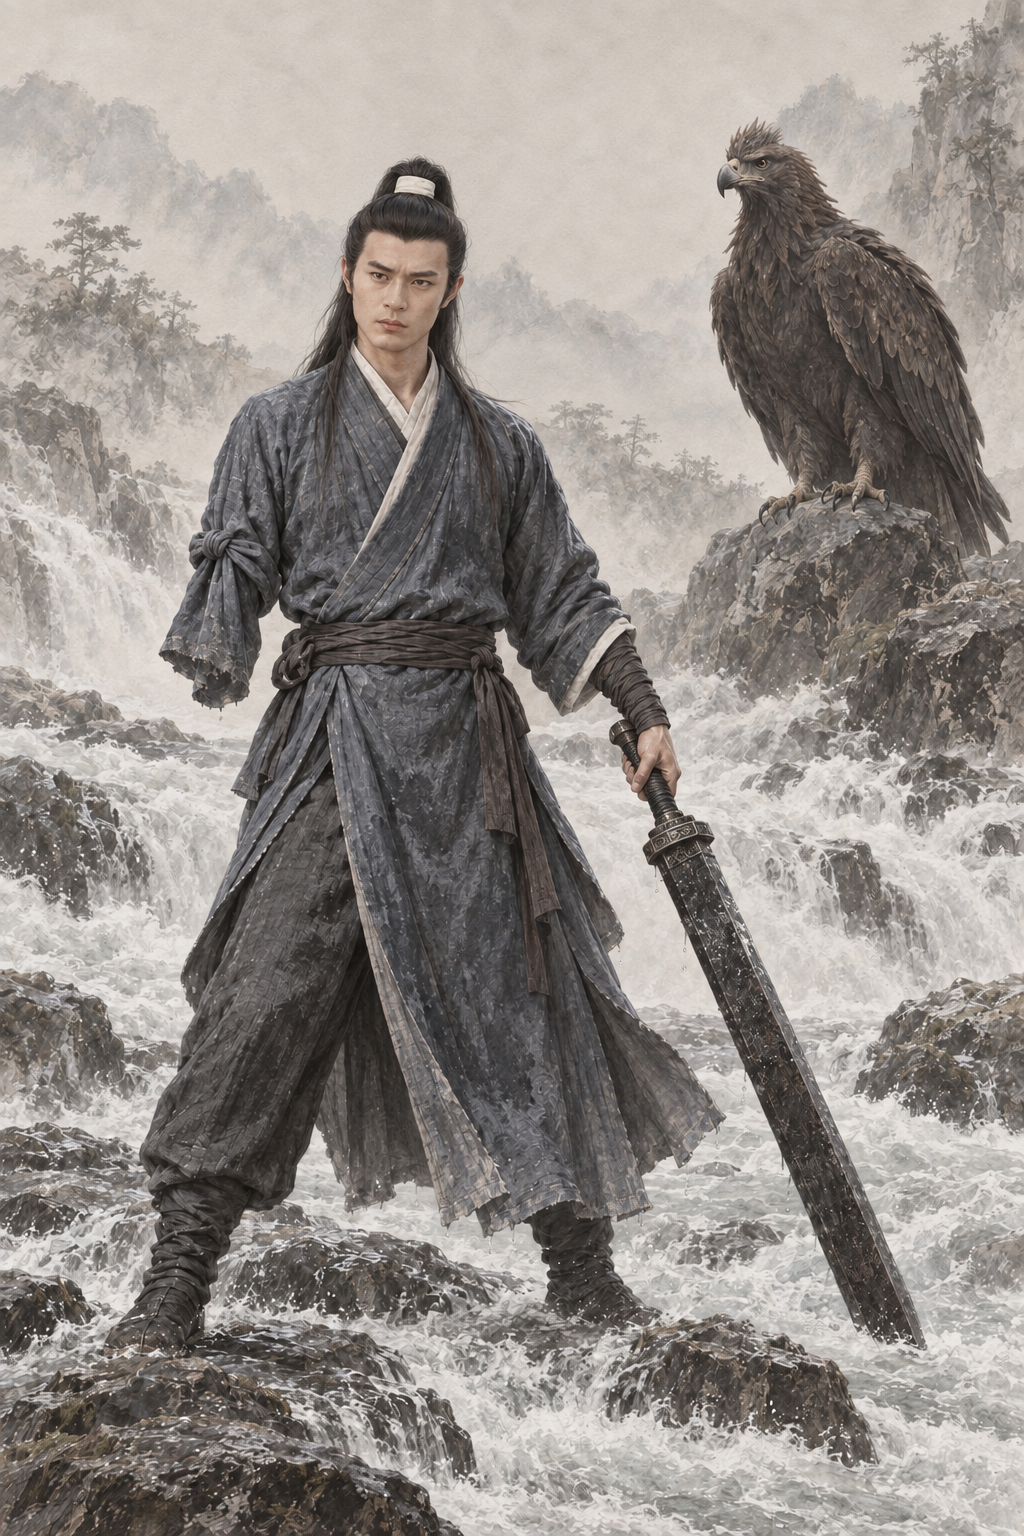
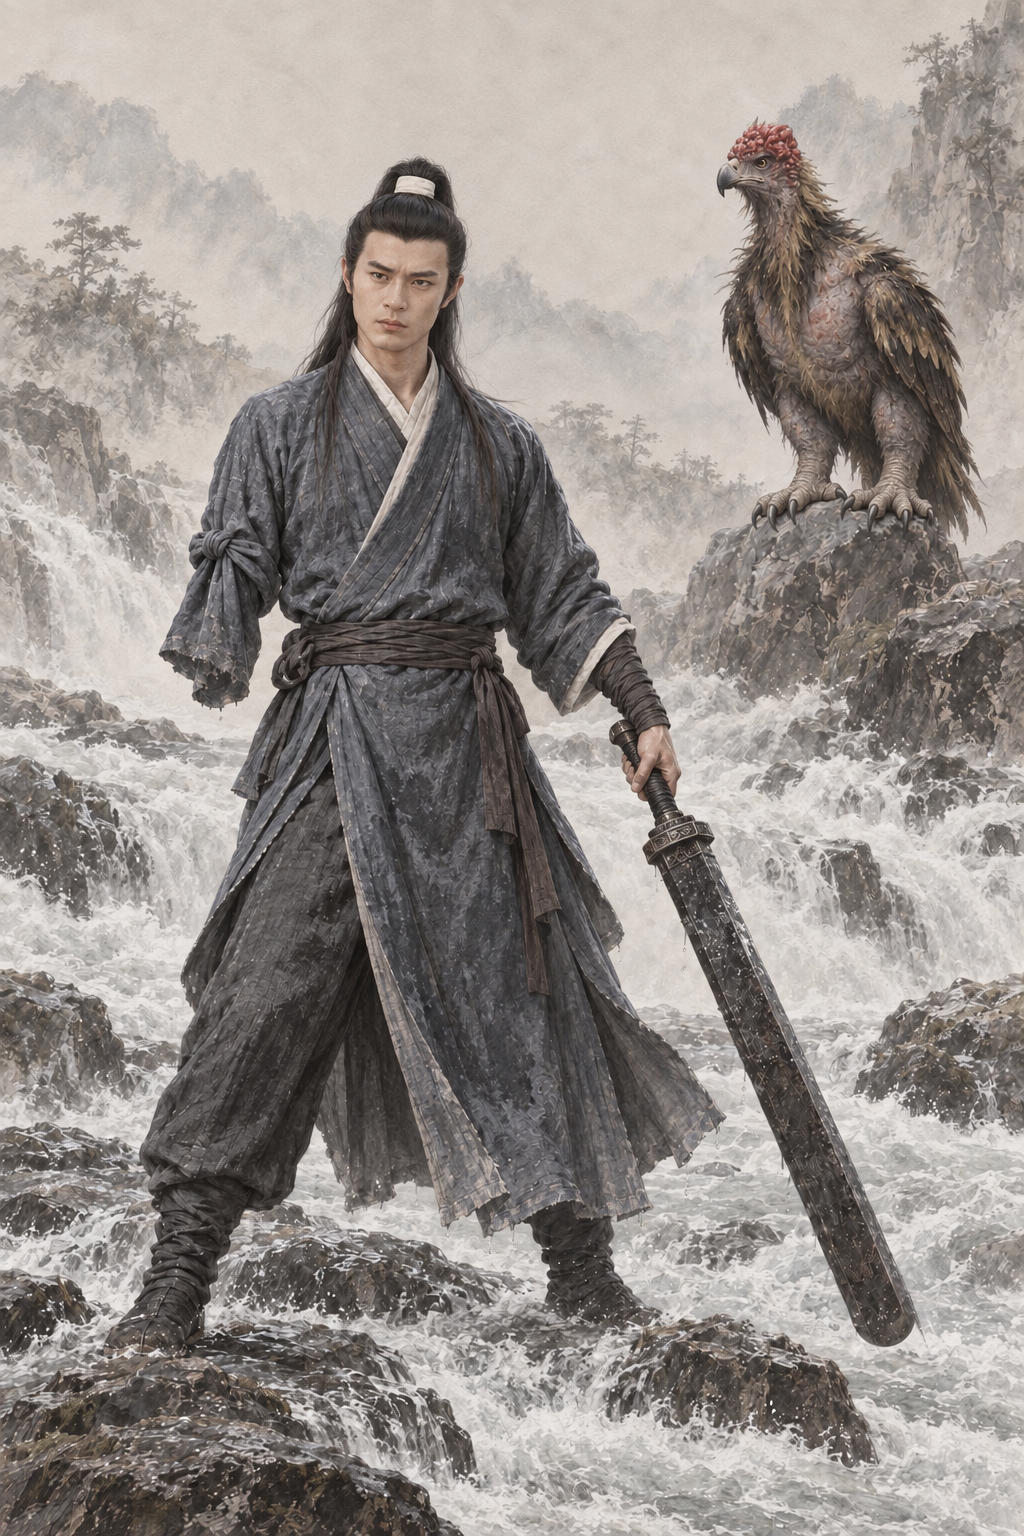
assets: AR-82 原著核对返修 杨过洪流重剑及神雕圆钝尖红肉瘤
原著摘句已同步提示词；已打开验图；蒙版外0像素变化。

Executed-By: Codex gpt-6.1-sol（AR-82）

Changed region(s): [[0.6875, 0.0625, 1.0, 0.4062], [0.8438, 0.8438, 0.9062, 0.875]]

diff --git a/assets/default/prompts/characters/ch03-shendiao/npc_yangguo__scene_torrent_heavy_sword_condor.md b/assets/default/prompts/characters/ch03-shendiao/npc_yangguo__scene_torrent_heavy_sword_condor.md
@@ -102,3 +102,9 @@ Create a premium REALISTIC Chinese wuxia character illustration with a delicate 
 - 采用作者授权宽松自查；偏差如实记录，candidate不代表approved。
 - 源PNG通常为1024×1536 RGB；其他原生2:3尺寸如实登记，原字节保存，不裁切、重编码、放大或去除溯源。
 - 完整请求、实际参考哈希及旧版本备份见 `.agents/coord/portrait-generation/realism-20261001/por_npc_yangguo__ch03_youth_scene_torrent_heavy_sword_condor.prepared.json`。
+
+## 原著依据
+
+- 《神雕侠侣》第二十六回 神雕重剑：“剑尖更圆圆的似是个半球”；https://www.xuges.com/wuxia/jinyong/sdxl/187.htm
+- 《神雕侠侣》第二十三回 手足情仇：“头顶生着个血红的大肉瘤”；https://www.xuges.com/wuxia/jinyong/sdxl/162.htm
+- AR-82 返修约束（本节优先于历史提示词）：只修改两处：左手重剑的菱形锐尖改半球圆钝、厚重不开刃；右上神雕头顶褐羽冠改为清楚血红大肉瘤，头部不画羽冠。神雕羽毛黄黑稀疏、粗壮双腿和短翅，不画普通丰满大鹰；保留同一只神雕站位和身体朝向。杨过本人、脸、手、衣服、河水与其余背景完全不动。 神雕必须很丑：躯干可见明显大片裸露灰皮，黄黑羽毛疏疏落落而非密羽，翅膀缩短贴躯干，腿脚比普通鹰粗壮数倍，腿的上段露皮；保留血红大肉瘤。
